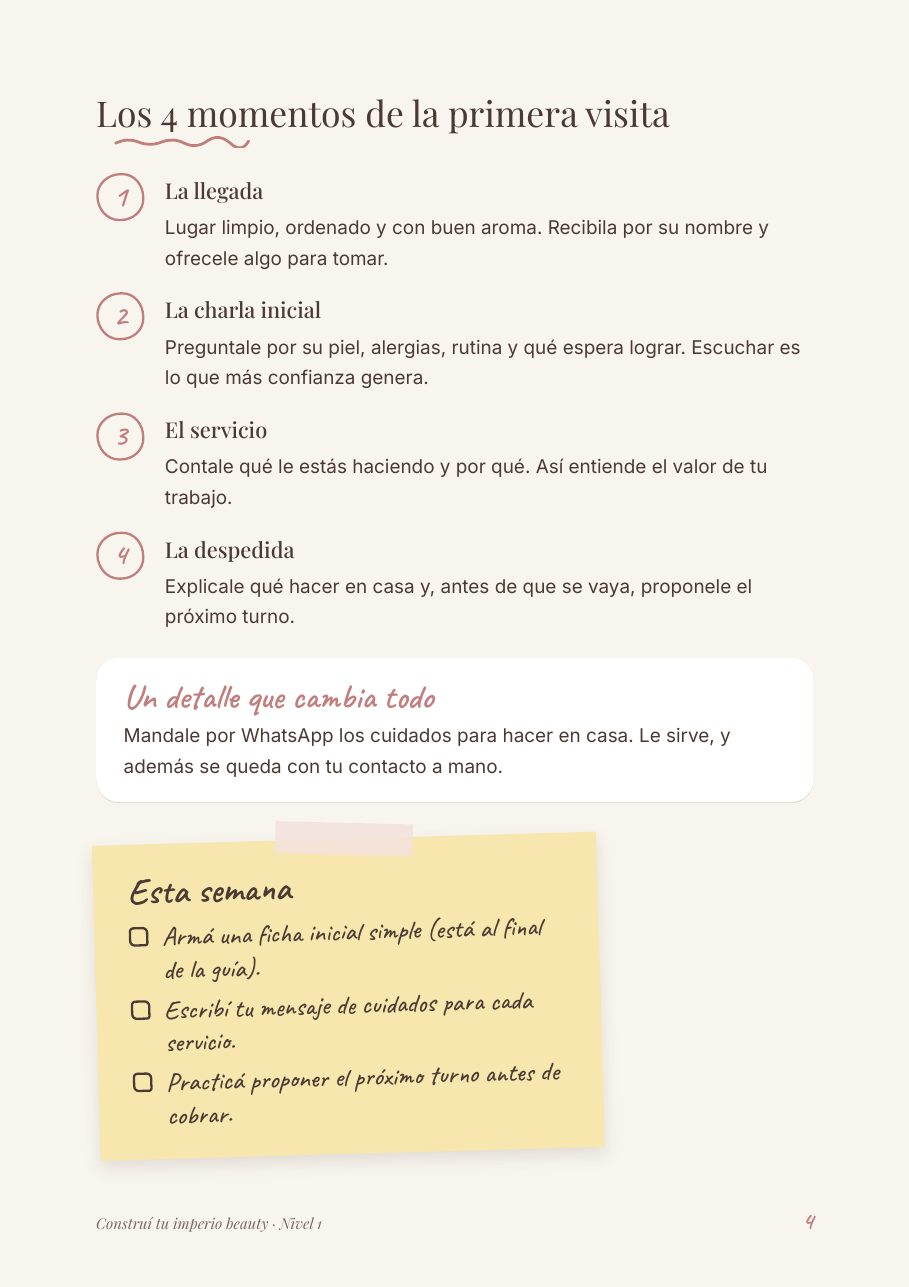
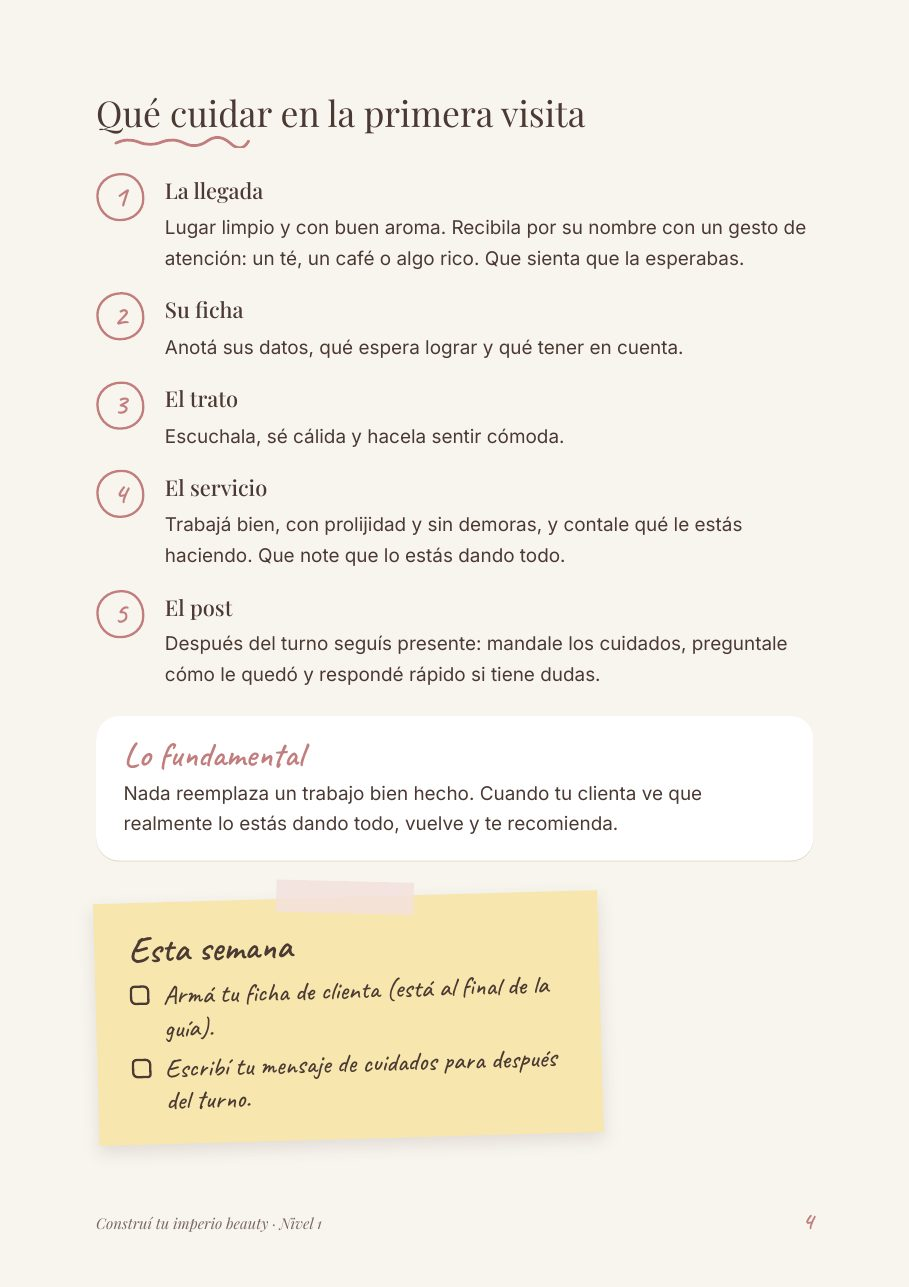
Add files via upload

diff --git a/index.html b/index.html
@@ -4,7 +4,7 @@
 <meta charset="utf-8">
 <meta name="viewport" content="width=device-width, initial-scale=1">
 <title>Construí tu imperio beauty · Nivel 1 · by SamCe</title>
-<meta name="description" content="Primeros pasos para formar tu propia empresa de estética. Una guía simple para ordenar tu negocio, conseguir clientas y lograr que vuelvan.">
+<meta name="description" content="Primeros pasos para formar tu propia empresa de estética. Una guía simple para conseguir clientas, lograr un flujo constante de turnos y que vuelvan.">
 <meta property="og:title" content="Construí tu imperio beauty · by SamCe">
 <meta property="og:description" content="Primeros pasos para formar tu propia empresa de estética.">
 <meta property="og:image" content="img/tapa.jpg">
@@ -118,7 +118,7 @@ footer .logo{display:block;margin-bottom:4px}
 <p class="t1">Construí tu</p>
 <h1 class="t2">IMPERIO</h1>
 <p class="t3">beauty.</p>
-<p class="lead">Primeros pasos para formar tu propia empresa de estética. Una guía simple para ordenar tu negocio, conseguir clientas y lograr que vuelvan, sin vueltas ni tecnicismos.</p>
+<p class="lead">Primeros pasos para formar tu propia empresa de estética. Te ayuda a emprender desde cero o a crecer a otro nivel si ya empezaste: conseguir clientas, lograr un flujo constante de turnos y que vuelvan.</p>
 <div class="cta">
 <a class="btn main" href="#comprar">Quiero la guía</a>
 <a class="btn alt" href="muestra-gratis.pdf" download>Descargar muestra gratis</a>
@@ -126,7 +126,7 @@ footer .logo{display:block;margin-bottom:4px}
 </div>
 <div class="hero-img">
 <img src="img/tapa.jpg" alt="Tapa del ebook Construí tu imperio beauty">
-<p class="note">¡10 minutos por capítulo!</p>
+<p class="note">¡de cero a tu imperio!</p>
 </div>
 </div>
 </div>
@@ -136,9 +136,9 @@ footer .logo{display:block;margin-bottom:4px}
 <h2 class="sh">¿Es para <em>vos</em>?</h2>
 <p class="ss">Si te identificás con alguna de estas, esta guía te va a ayudar.</p>
 <div class="forwho">
-<div class="fw"><span class="hand">Estás empezando</span>Te recibiste de cosmetóloga, esteticista, lashista o manicura y querés atender por tu cuenta.</div>
-<div class="fw"><span class="hand">Tenés clientas, pero no orden</span>La agenda tiene huecos, te faltan clientas o te cuesta que vuelvan.</div>
-<div class="fw"><span class="hand">No sabés de negocios</span>No hace falta saber de administración ni de números: la guía te ayuda a entender tu negocio y hacerlo crecer, paso a paso.</div>
+<div class="fw"><span class="hand">Estás empezando</span>Te formaste en algún rubro de la belleza y querés tener tu propio espacio y tus propias clientas.</div>
+<div class="fw"><span class="hand">Ya empezaste</span>Tenés clientas, pero querés más: un flujo constante, la agenda llena y clientas que vuelvan.</div>
+<div class="fw"><span class="hand">Querés ir por más</span>Sabés hacer tu trabajo y ahora querés convertirlo en un negocio que crezca, paso a paso.</div>
 </div>
 </div>
 </section>
@@ -148,7 +148,7 @@ footer .logo{display:block;margin-bottom:4px}
 <h2 class="sh">Lo que vas a <em>aprender</em></h2>
 <p class="ss">5 capítulos cortos. Cada uno termina con tres tareas concretas para hacer esa misma semana.</p>
 <div class="chapters">
-<div class="ch"><b>1</b><h3>La experiencia de tu clienta</h3><p>Los 4 momentos de la primera visita que hacen que vuelva.</p></div>
+<div class="ch"><b>1</b><h3>La experiencia de tu clienta</h3><p>La llegada, su ficha, el trato, el servicio y el post: qué cuidar en la primera visita.</p></div>
 <div class="ch"><b>2</b><h3>Una agenda tranquila</h3><p>Turnos ordenados y cómo evitar que te falten.</p></div>
 <div class="ch"><b>3</b><h3>Conseguir clientas nuevas</h3><p>Las 5 fuentes que más funcionan, sin pagar publicidad.</p></div>
 <div class="ch"><b>4</b><h3>Que vuelvan</h3><p>Que se sienta como en casa: escucharla, recordarla y cuidarla.</p></div>
@@ -162,7 +162,7 @@ footer .logo{display:block;margin-bottom:4px}
 <h2 class="sh">Mirá cómo es <em>por dentro</em></h2>
 <p class="ss">Diseñada para leerse fácil, con color, ejemplos y espacio para anotar.</p>
 <div class="inside">
-<figure><img src="img/muestra-visita.jpg" alt="Página sobre los 4 momentos de la primera visita"><figcaption>paso a paso</figcaption></figure>
+<figure><img src="img/muestra-visita.jpg" alt="Página sobre qué cuidar en la primera visita"><figcaption>paso a paso</figcaption></figure>
 <figure><img src="img/muestra-agenda.jpg" alt="Página sobre cómo ordenar la agenda"><figcaption>ideas listas para aplicar</figcaption></figure>
 <figure><img src="img/muestra-plan.jpg" alt="Plan de acción de 30 días"><figcaption>tu plan de 30 días</figcaption></figure>
 </div>
@@ -211,7 +211,7 @@ footer .logo{display:block;margin-bottom:4px}
 <section class="faq band">
 <div class="wrap">
 <h2 class="sh">Preguntas <em>frecuentes</em></h2>
-<details><summary>¿Necesito saber de administración o de números?</summary><p>No. El Nivel 1 está pensado para empezar desde cero, sin fórmulas ni cuentas complicadas.</p></details>
+<details><summary>¿Necesito experiencia previa en negocios?</summary><p>No. El Nivel 1 está pensado para que puedas empezar desde cero o crecer si ya arrancaste.</p></details>
 <details><summary>¿Sirve si ya tengo mi espacio de trabajo?</summary><p>Sí. Te ayuda a ordenar lo que ya hacés, llenar la agenda y lograr que tus clientas vuelvan.</p></details>
 <details><summary>¿Es un libro físico?</summary><p>No, es un PDF. Lo podés leer en cualquier dispositivo o imprimirlo.</p></details>
 <details><summary>¿Cómo lo recibo?</summary><p>Apenas se confirma el pago, te llega un mail de Hotmart con el acceso para descargar el ebook.</p></details>
